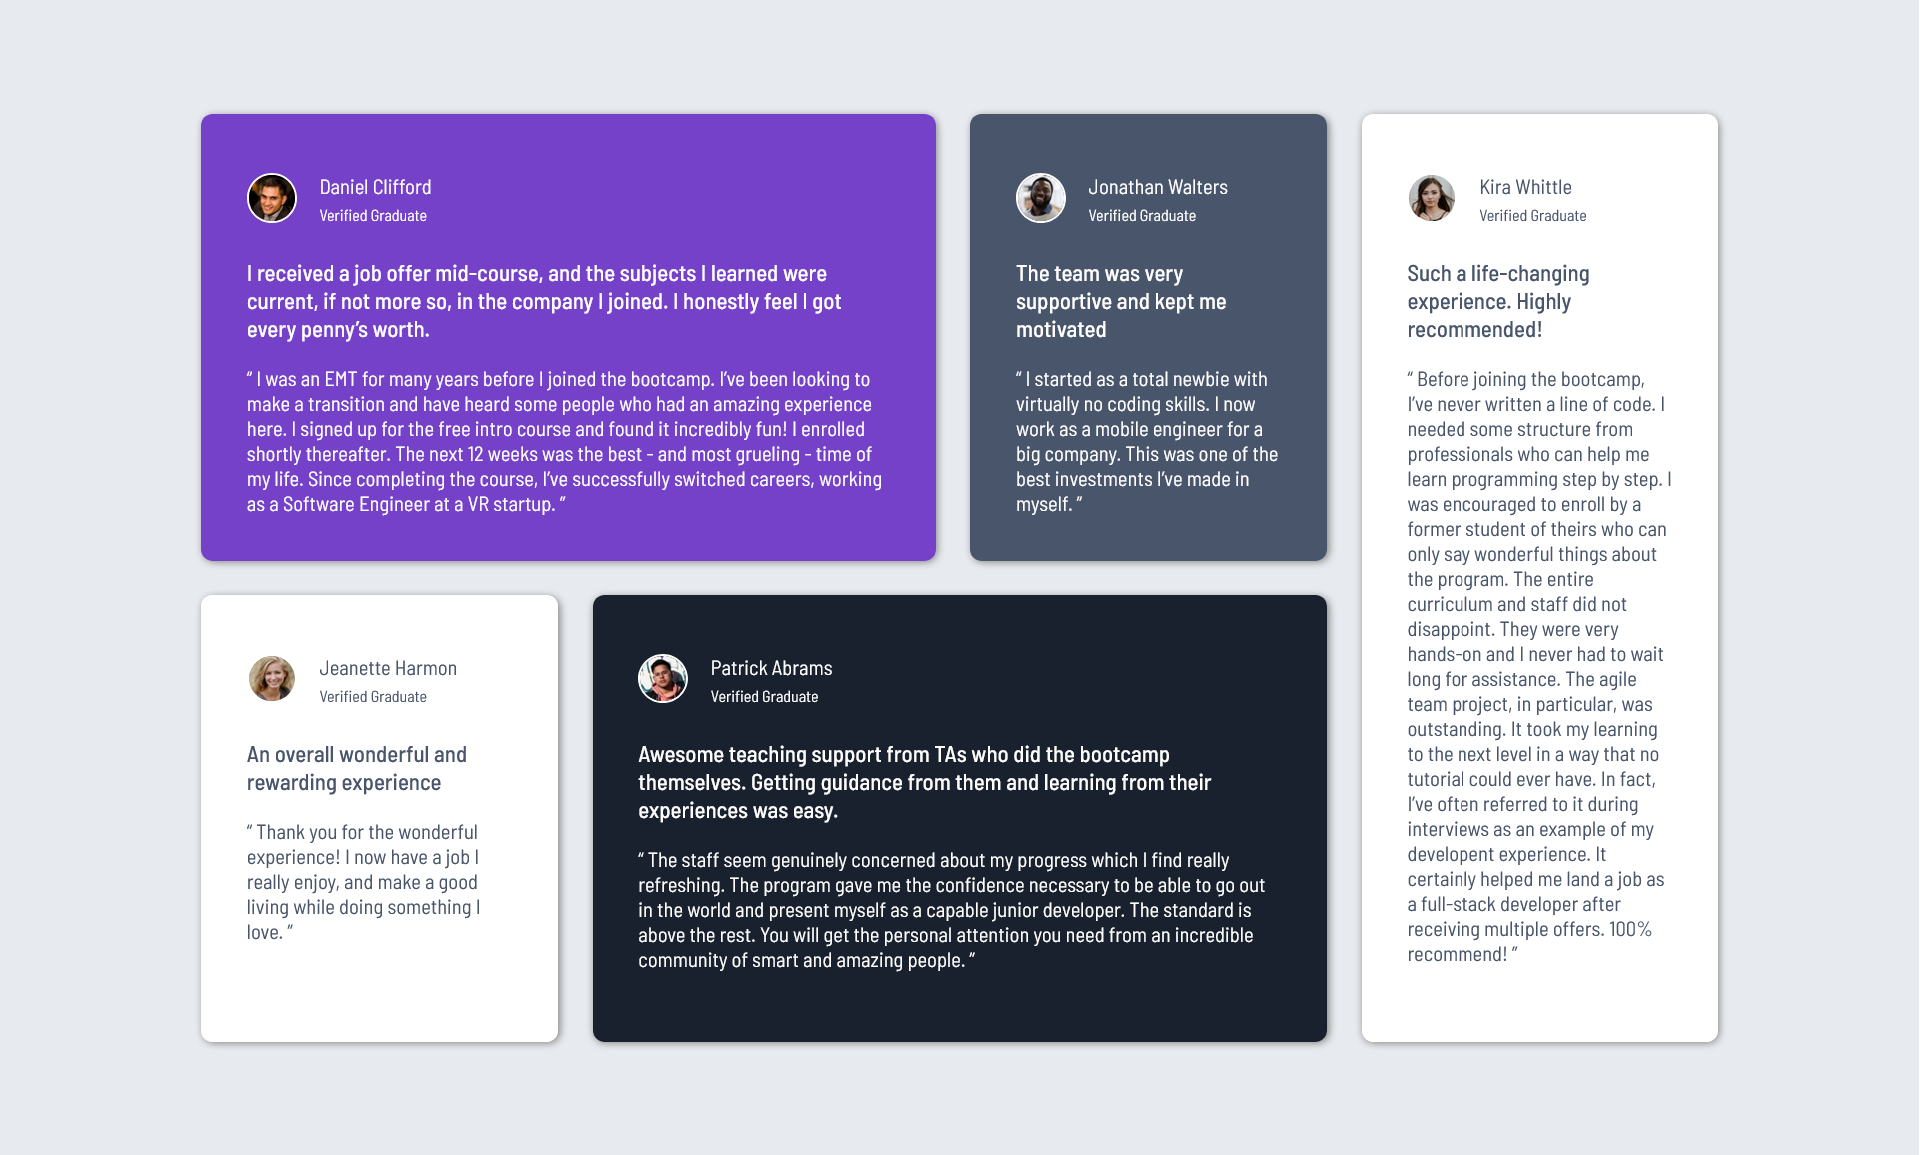
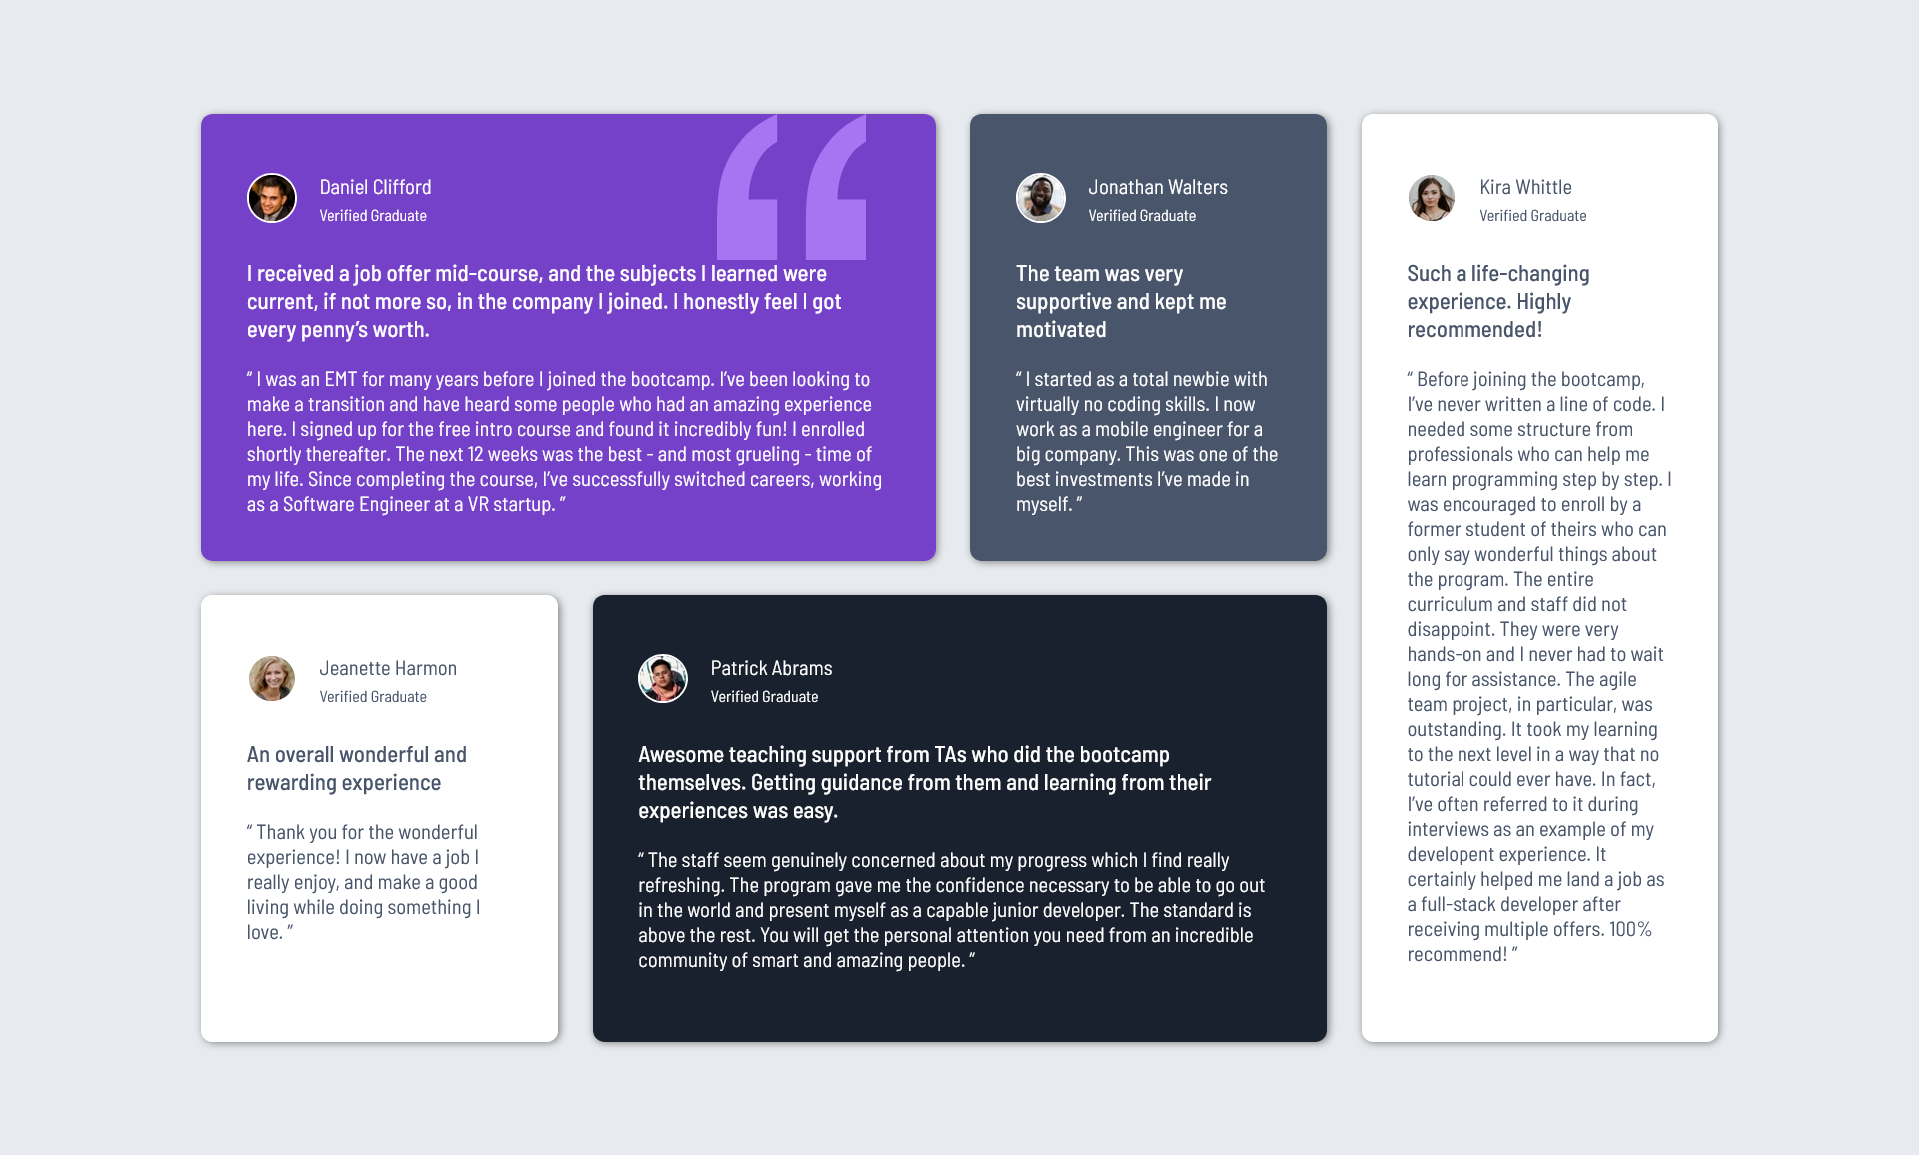
add svg bg

Changed region(s): [[0.375, 0.0935, 0.4688, 0.2494]]

diff --git a/styles.css b/styles.css
@@ -104,6 +104,9 @@ blockquote {
   }
   .purple {
     grid-column: 1/ 3;
+    background-image: url("./images/bg-pattern-quotation.svg");
+    background-repeat: no-repeat;
+    background-position-x: 88%;
   }
 
   .dark-blue {
